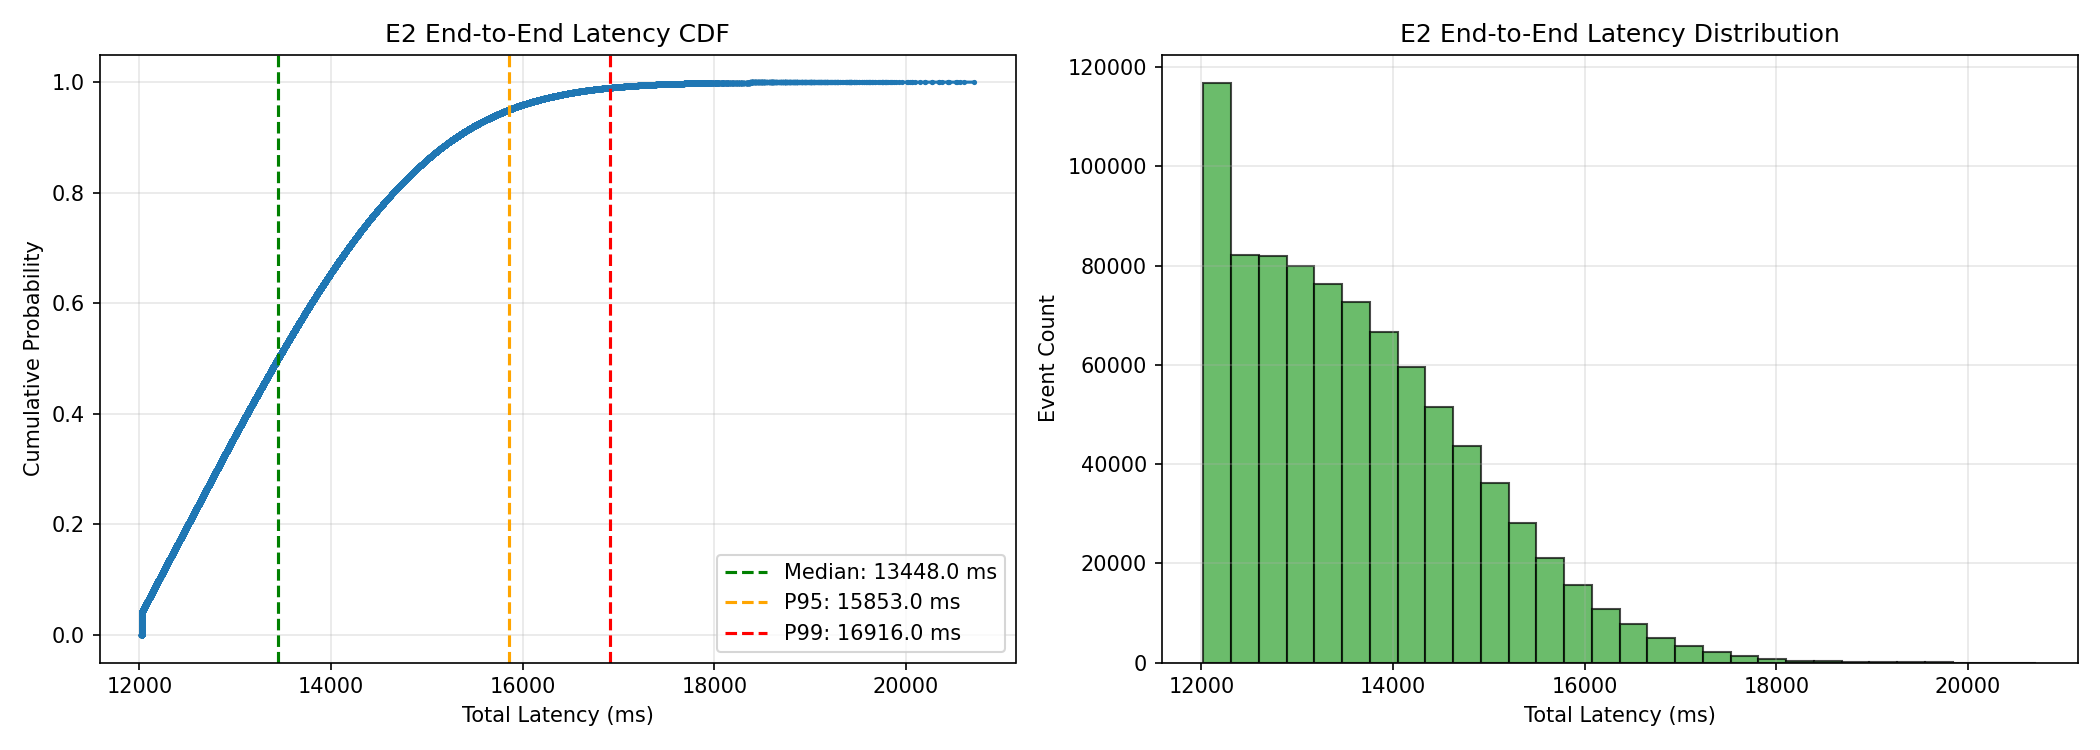
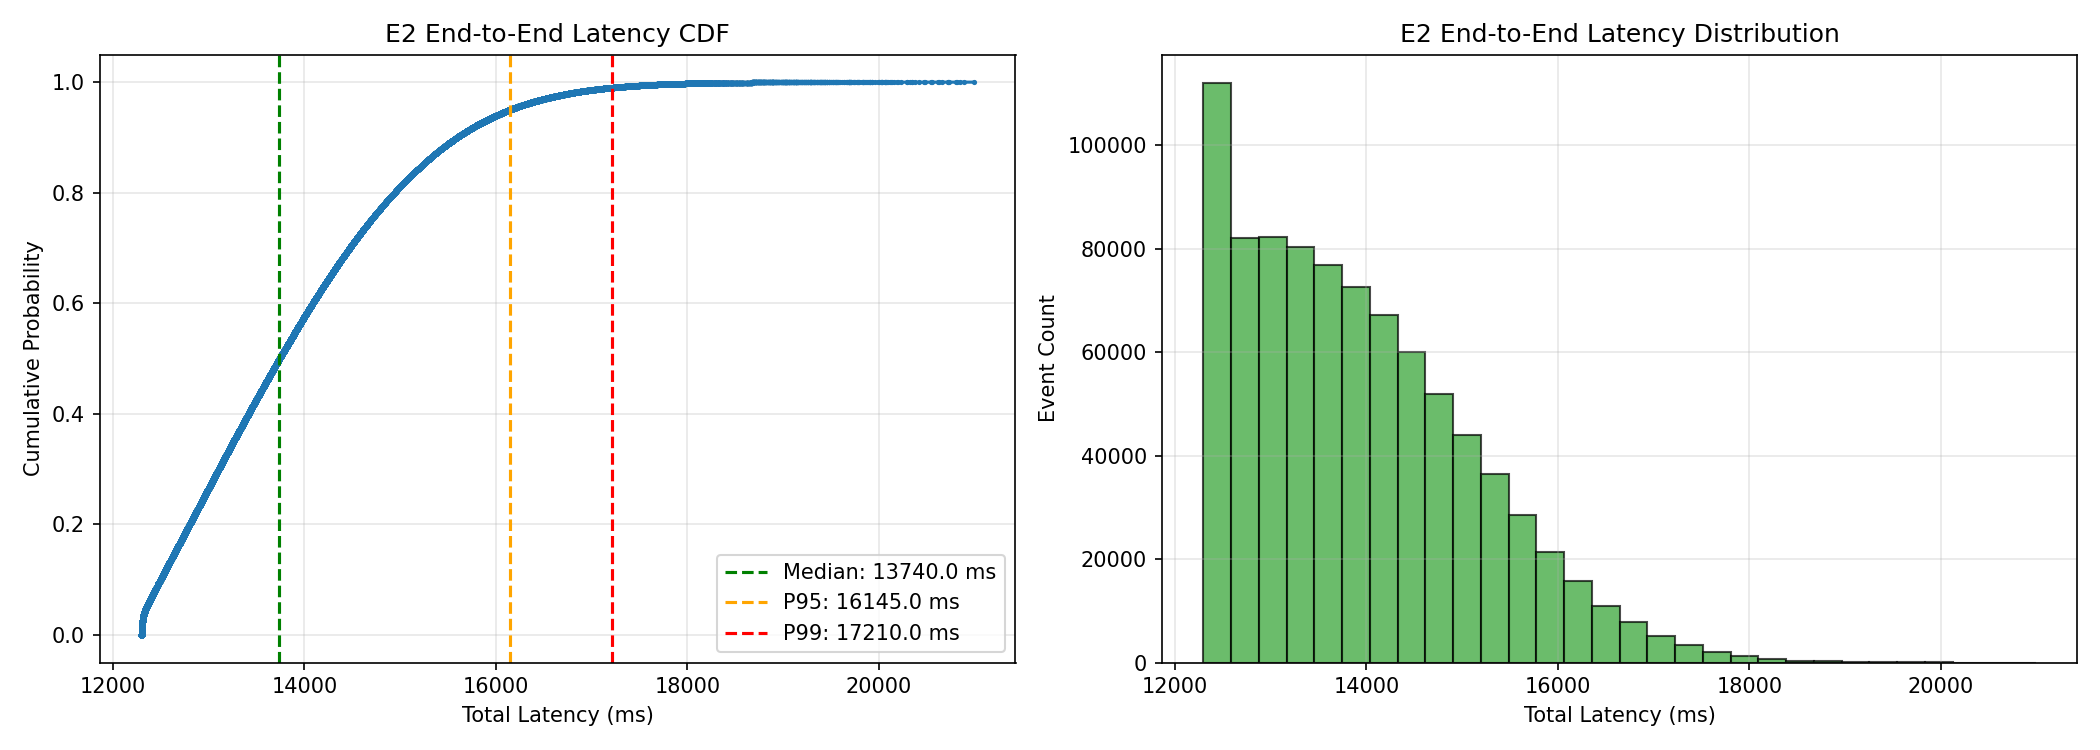
fix(e2): refresh latency timing results

diff --git a/crates/e2-bench/src/pipeline.rs b/crates/e2-bench/src/pipeline.rs
@@ -26,6 +26,7 @@ pub fn run_pipeline_seed(
 
     let mut rows = Vec::new();
     let mut template_cache = HashMap::new();
+    let mut proof_timing_cache = HashMap::new();
 
     let inner_circuits = [
         CircuitKind::C2,
@@ -36,7 +37,7 @@ pub fn run_pipeline_seed(
 
     let l1_mode_str = options.l1_mode.to_string();
 
-    // Timeline tracker: serializes lot proving. The proof step uses E1 prove_ms only.
+    // Timeline tracker: serializes lot proving. Timings are measured once per circuit/lot size.
     let mut current_timeline_ms = 0u64;
 
     for lot in &lots {
@@ -56,15 +57,25 @@ pub fn run_pipeline_seed(
 
         // Generate synthetic E1 lot & execute proofs C2..C5
         let synth_lot = synthetic_lot(seed as u64 + lot.lot_id as u64, lot_size, e1_profile);
-        let mut total_prove_ms = 0.0f64;
+        let mut total_proof_ms = 0.0f64;
         let mut status = "ok".to_string();
-        let mut note_msg = "base_proof_pipeline_c2_to_c5;proof_timing=prove_ms_only".to_string();
+        let mut note_msg =
+            "base_proof_pipeline_c2_to_c5;proof_timing=witness_ms_plus_prove_ms_cached_by_lot_size"
+                .to_string();
 
         for &kind in &inner_circuits {
-            let tmpl = &template_cache[&(kind, lot_size)];
+            let cache_key = (kind, lot_size);
+            if let Some(ms) = proof_timing_cache.get(&cache_key) {
+                total_proof_ms += ms;
+                continue;
+            }
+
+            let tmpl = &template_cache[&cache_key];
             match prove_and_verify(tmpl, &synth_lot, seed, e1_profile) {
                 Ok(stats) => {
-                    total_prove_ms += stats.prove_ms;
+                    let proof_ms = stats.witness_ms + stats.prove_ms;
+                    proof_timing_cache.insert(cache_key, proof_ms);
+                    total_proof_ms += proof_ms;
                 }
                 Err(err) => {
                     status = "error".to_string();
@@ -74,7 +85,7 @@ pub fn run_pipeline_seed(
             }
         }
 
-        let proof_duration_ms = total_prove_ms.ceil() as u64;
+        let proof_duration_ms = total_proof_ms.ceil() as u64;
         let proof_end_ms = proof_start_ms + proof_duration_ms.max(1);
 
         // 2. Submit transaction to L1

diff --git a/crates/e2-bench/src/stats.rs b/crates/e2-bench/src/stats.rs
@@ -130,7 +130,7 @@ pub fn write_metadata_json(
             "mean": summary.mean_ms,
         },
         "pipeline_disclaimer": "Base proof pipeline latency using E1 Plonky3 base proofs (C2-C5). Full recursive ZK-Rollup aggregation remains blocked upstream.",
-        "proof_timing_scope": "proof_start_ms/proof_end_ms use measured E1 prove_ms only; witness/setup time is not included in the timed proof window",
+        "proof_timing_scope": "proof_start_ms/proof_end_ms use measured E1 witness_ms + prove_ms cached by circuit and lot size; reusable template/setup time is not included in the timed proof window",
         "l1_status": "All L1 modes are deterministic simulations; no Anvil/Sepolia RPC transaction is submitted by this crate",
         "c4_status": "Poseidon2 actor authorization proof; Ed25519/EdDSA production verification remains a separate blocker",
         "recursion_status": "GitHub Plonky3-recursion rev 524665d is pinned, but wrapper aggregation currently panics with 'trace_next is always present'; no mocked recursive proof is emitted",

diff --git a/scripts/e2_analyze.py b/scripts/e2_analyze.py
@@ -101,7 +101,7 @@ def write_report(df, summary_path, report_path):
         f"- **Total Ingested Events**: `{total_events}`",
         f"- **Total Formed Lots**: `{total_lots}`",
         "- **Proof Components**: E1 Plonky3 base proofs (C2 Poseidon2 Merkle, C3 Threshold/Time, C4 Actor Auth, C5 Nullifier).",
-        "- **Proof Timing Scope**: `proof_start_ms` → `proof_end_ms` uses measured E1 `prove_ms` only; witness/setup time is outside the timed proof window.",
+        "- **Proof Timing Scope**: `proof_start_ms` → `proof_end_ms` uses measured E1 `witness_ms + prove_ms` cached by circuit and lot size; reusable template/setup time is outside the timed proof window.",
         "- **L1 Scope**: L1 confirmation is deterministic simulation. No Anvil/Sepolia RPC transaction is submitted by this benchmark.",
         "- **Disclaimer**: Reported numbers represent **base proof pipeline latency**. Full recursive rollup latency is not claimed as Plonky3 recursive wrapper remains blocked upstream.",
         "",

diff --git a/results/e2/report.md b/results/e2/report.md
@@ -6,7 +6,7 @@
 - **Total Ingested Events**: `863755`
 - **Total Formed Lots**: `35498`
 - **Proof Components**: E1 Plonky3 base proofs (C2 Poseidon2 Merkle, C3 Threshold/Time, C4 Actor Auth, C5 Nullifier).
-- **Proof Timing Scope**: `proof_start_ms` → `proof_end_ms` uses measured E1 `prove_ms` only; witness/setup time is outside the timed proof window.
+- **Proof Timing Scope**: `proof_start_ms` → `proof_end_ms` uses measured E1 `witness_ms + prove_ms` cached by circuit and lot size; reusable template/setup time is outside the timed proof window.
 - **L1 Scope**: L1 confirmation is deterministic simulation. No Anvil/Sepolia RPC transaction is submitted by this benchmark.
 - **Disclaimer**: Reported numbers represent **base proof pipeline latency**. Full recursive rollup latency is not claimed as Plonky3 recursive wrapper remains blocked upstream.
 
@@ -14,12 +14,12 @@
 
 | Metric | Latency (ms) | Latency (s) |
 |---|---:|---:|
-| **Median (P50)** | 13448.00 | 13.448 |
-| **P95** | 15853.00 | 15.853 |
-| **P99** | 16916.00 | 16.916 |
-| **Min** | 12021.00 | 12.021 |
-| **Max** | 20709.00 | 20.709 |
-| **Mean** | 13633.23 | 13.633 |
+| **Median (P50)** | 13740.00 | 13.740 |
+| **P95** | 16145.00 | 16.145 |
+| **P99** | 17210.00 | 17.210 |
+| **Min** | 12297.00 | 12.297 |
+| **Max** | 20992.00 | 20.992 |
+| **Mean** | 13925.45 | 13.925 |
 
 ## Stage 3 RQ2 Context
 This E2 latency profile provides empirical baseline measurements for Paper 01 RQ2 under standard EPCIS workload.

diff --git a/README.md b/README.md
@@ -144,6 +144,6 @@ cargo run --release -p e2-bench -- \
 
 ### Disclaimers & Disclosures
 
-- E2 tái sử dụng E1 Plonky3 base proofs (C2–C5), và proof window hiện tính `prove_ms` của E1 proofs; witness/setup time không nằm trong `proof_start_ms` → `proof_end_ms`.
+- E2 tái sử dụng E1 Plonky3 base proofs (C2–C5), và proof window hiện tính `witness_ms + prove_ms` được cache theo circuit và lot size; reusable template/setup time không nằm trong `proof_start_ms` → `proof_end_ms`.
 - Report ghi rõ đây là **base proof pipeline latency**, không claim full recursive rollup latency nếu Plonky3 recursive wrapper vẫn đang blocked.
 - L1 confirmation hiện là deterministic simulation: `mock` ~12s, `local/anvil` ~1s, `sepolia` ~15s. Chưa submit transaction thật lên Anvil/Sepolia.
